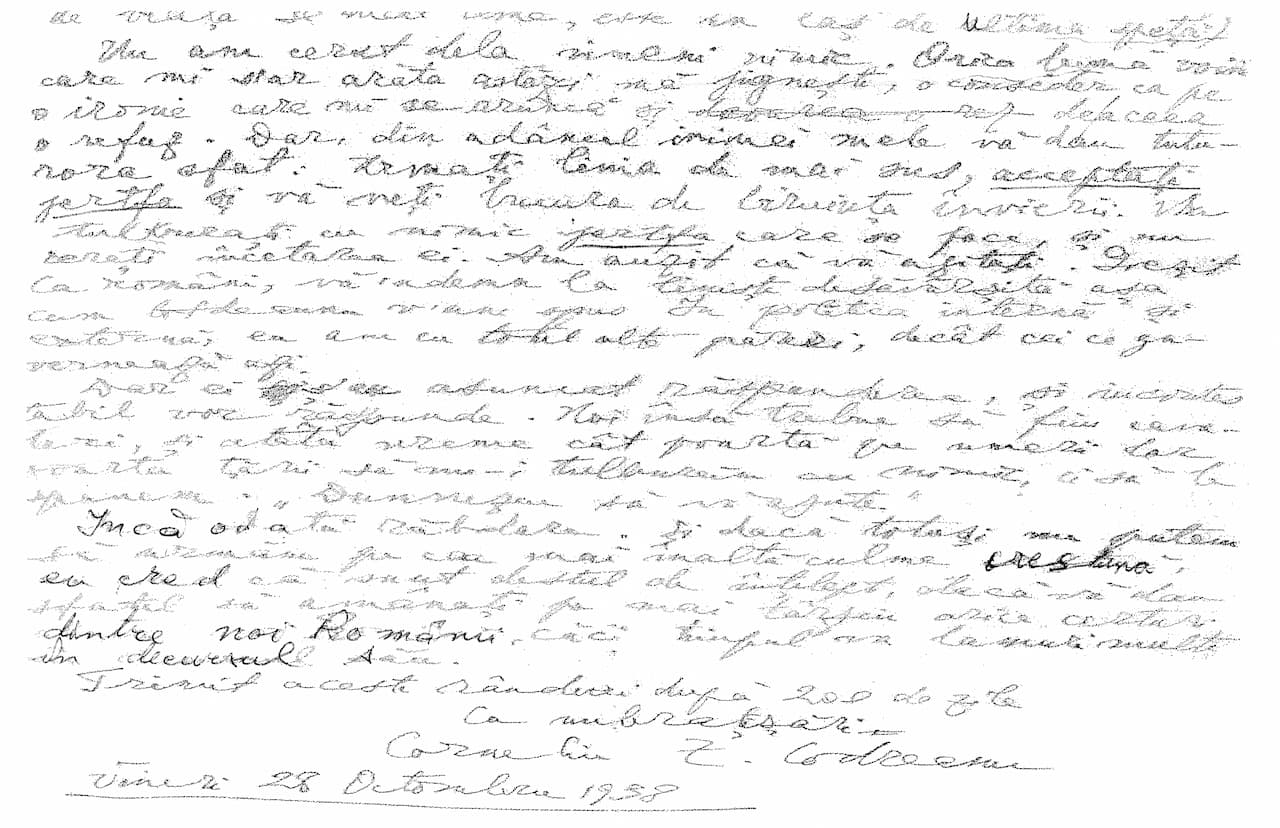
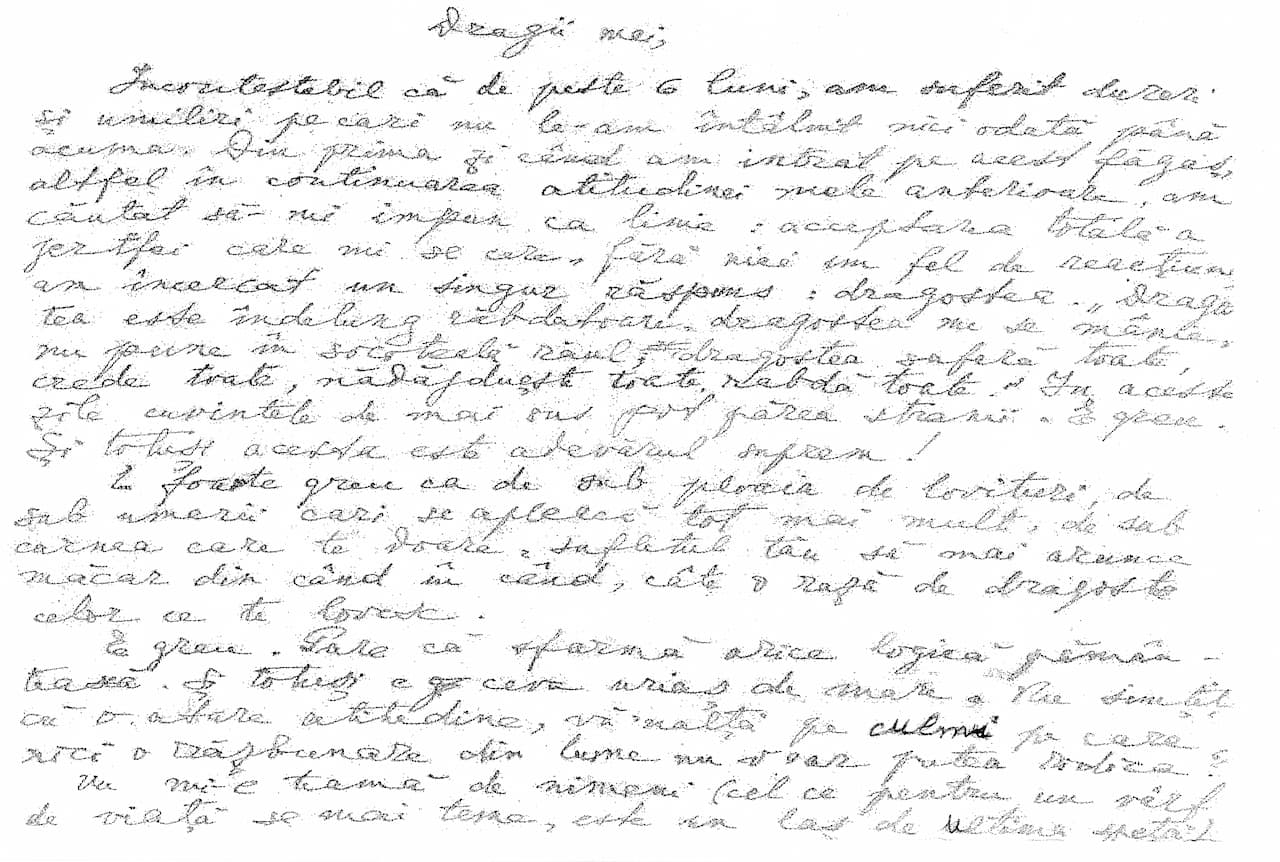
ADD AXA-III 37

diff --git a/content/posts/magazine/axa-iii/37/scrisoarea-trimisa-din-temnita-de-Corneliu-Zelea-Codreanu-in-28-octombrie-1938-cu-o-luna-înainte-de-a-fi-asasinat-catre-camarazii-sai-aflati-in-libertate/index.html b/content/posts/magazine/axa-iii/37/scrisoarea-trimisa-din-temnita-de-Corneliu-Zelea-Codreanu-in-28-octombrie-1938-cu-o-luna-înainte-de-a-fi-asasinat-catre-camarazii-sai-aflati-in-libertate/index.html
@@ -18,7 +18,8 @@ images:
 pinned: false
 featured: false
 ---
-<p class="text-center"><img class="img-fluid" alt="Imagine 2" src="images/1.jpg"></p>
+<p class="text-center"><img class="img-fluid" alt="Imagine 1" src="images/1.jpg"></p>
+<p class="text-center"><img class="img-fluid" alt="Imagine 2" src="images/2.jpg"></p>
 <p>Dragii mei,</p>
 <p>Incontestabil că de peste 6 luni, am suferit dureri și umiliri pe care nu le-am întâlnit nici odată până acum. Din prima zi când am intrat pe acest făgaș, altfel în continuarea atitudinei mele anterioare, am căutat să-mi impun ca linie: acceptarea totală a jertfei care mi se cere, fără nici un fel de reacțiune am încercat un singur răspuns: dragostea. „Dragostea este îndelung răbdătoare, dragostea nu se mânie, nu pune în socoteală răul, dragostea suferă toate, crede toate, nădăjduiește toate, rabdă toate”. În aceste zile cuvintele de mai sus pot părea stranii. E greu. Și totuși acesta este adevărul suprem!</p>
 <p>Este foarte greu ca de sub ploaia de lovituri, de sub umerii cari se apleacă tot mai mult, de sub carnea care te doare, sufletul tău să mai arunce, măcar din când în când, câte o rază de dragoste celor ce te lovesc. E greu. Pare că sfarmă orice logică pământească. Și totuși e ceva uriaș de mare. Nu simțiți că o atare atitudine, vă`nalță pe culmi pe care nici o răzbunare din lume nu v-ar putea ridica? Nu mi-e teamă de nimeni (cel ce pentru un vârf de viață se mai teme, este un laș de ultimă speță). Nu am cerut dela nimeni nimic. Orice bună voință care mi s`ar arăta astăzi mă jignește, o consider ca pe o ironie care mi se aruncă și de aceea o refuz. Dar, din adâncul inimei mele vă dau tuturora sfat: urmați linia de mai sus, <u>acceptați jertfa</u> și vă veți bucura de biruința învierii. Nu tulburați cu nimic <u>jertfa</u> care se face și nu cereți încetarea ei. Am auzit că vă agitați. Greșit. Ca români, vă îndemn la liniște desăvârșită așa cum întotdeauna v`am spus. În politica internă și externă, eu am cu totul alte păreri, decât cei ce guvernează azi. Dar ei au asumat răspunderea și incontestabil vor răspunde. Noi însă trebuie să fim cavaleri, și atâta vreme cât poartă pe umerii lor soarta țării, să nu-i tulburăm cu nimic, ci să le spunem: „Dumnezeu să vă ajute”. Încă o dată răbdare. Și dacă totuși nu putem să urcăm pe cea mai înaltă culme creștină, eu cred că sunt destul de înțelept, dacă vă dau sfatul să amânați pe mai târziu orice certuri dintre noi Românii, căci timpul va lămuri mult în decursul său.</p>
@@ -28,6 +29,6 @@ Corneliu Z. Codreanu</p>
 <p><u>Vineri 28 Octombrie 1938</u></p>
 <div class="article-divider"></div>
 <p>Surse:
-<a class="text-decoration-underline" href="images/0-original.jpg" target="_blank">imagine 1</a>,
-<a class="text-decoration-underline" href="images/1-original.jpg" target="_blank">imagine 2</a>
+<a class="text-decoration-underline" href="images/1-original.jpg" target="_blank">imagine 1</a>,
+<a class="text-decoration-underline" href="images/2-original.jpg" target="_blank">imagine 2</a>
 </p>
